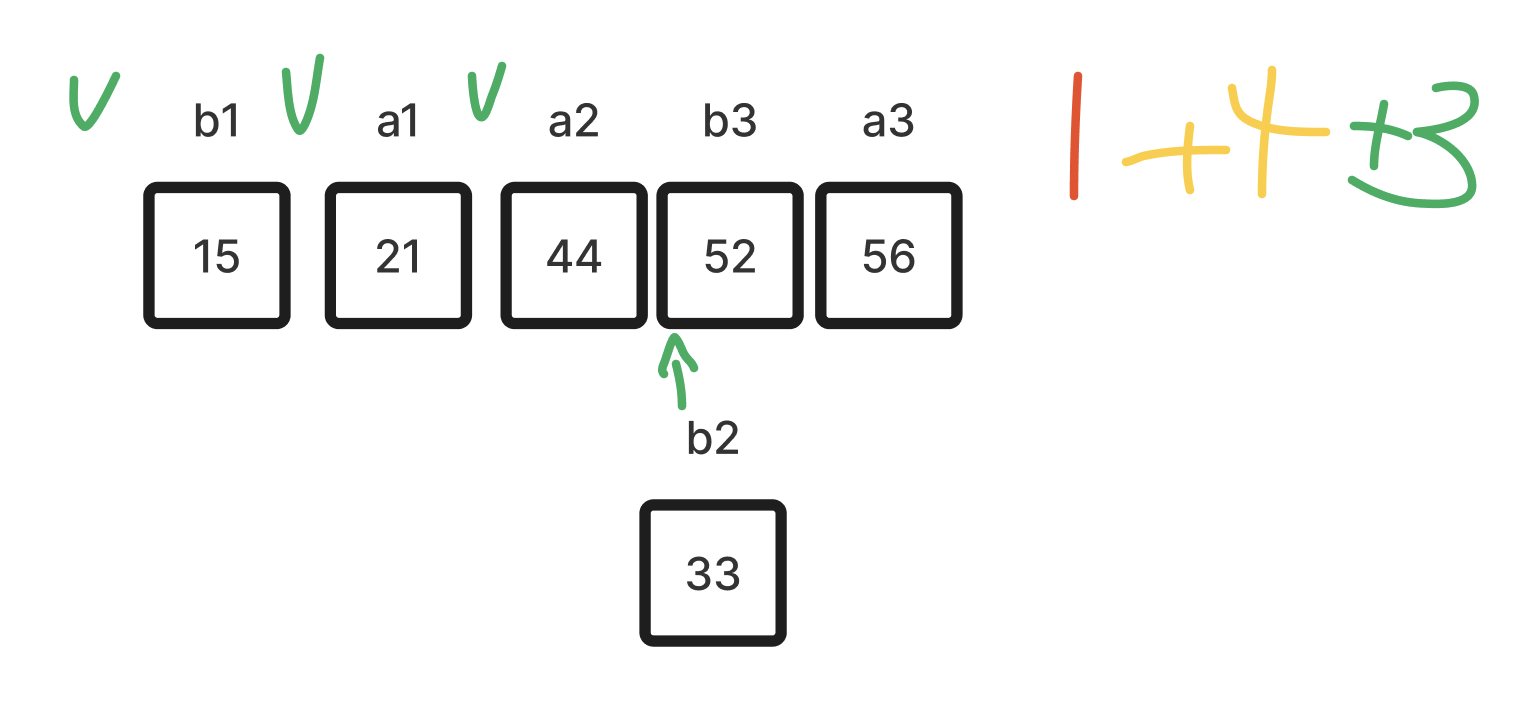
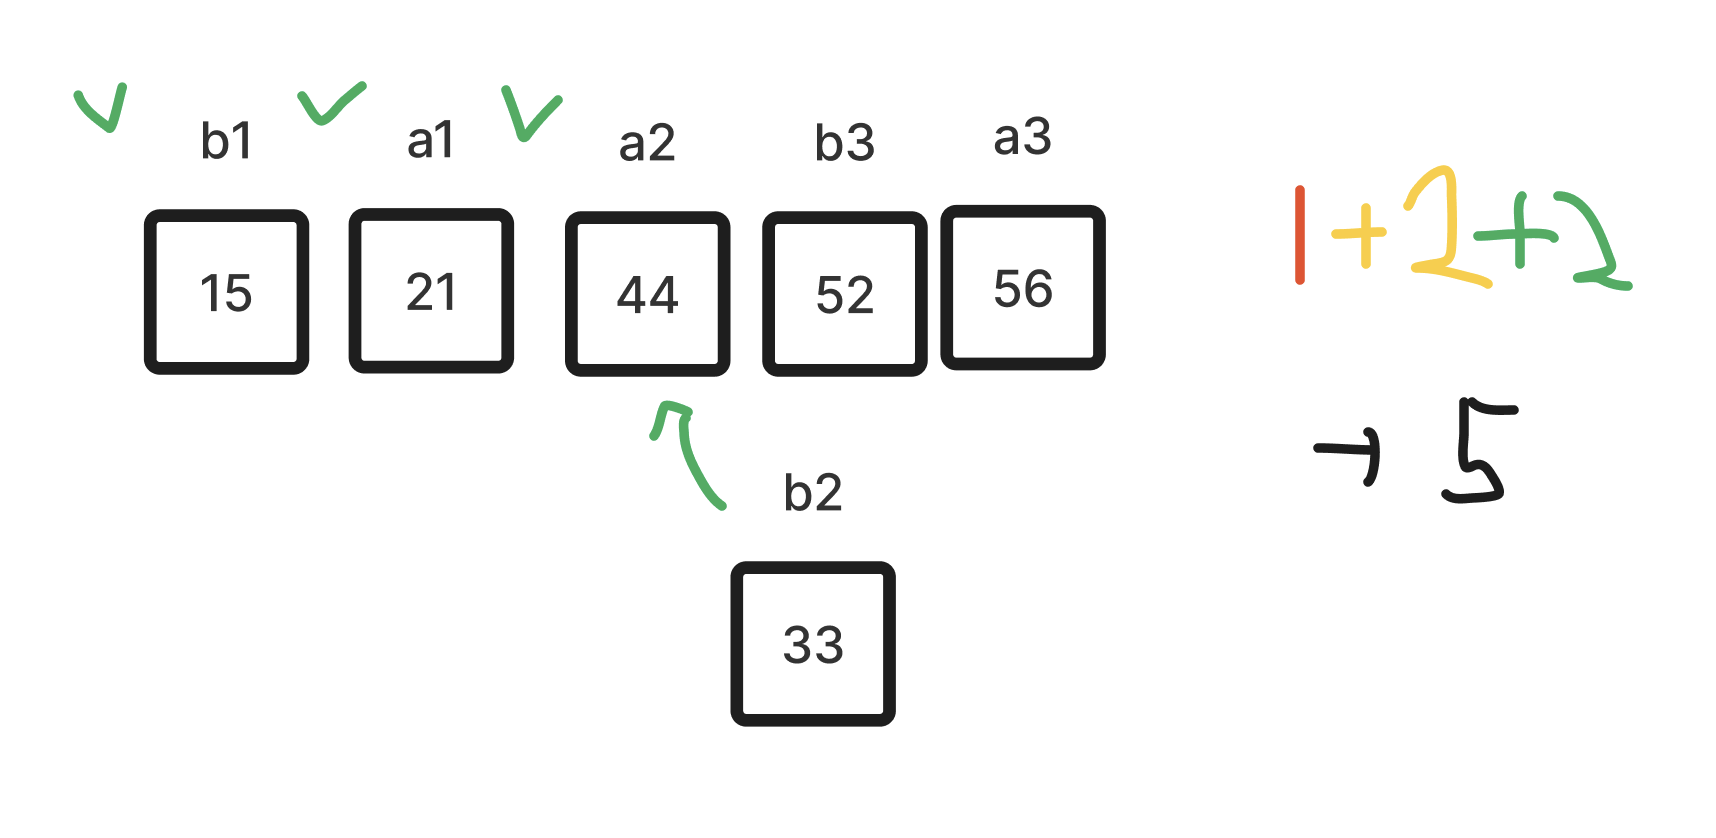
fixed: cpp_module_09

diff --git a/_posts/42cursus/tag-cppmodule/2023-12-21-cpp-module09.md b/_posts/42cursus/tag-cppmodule/2023-12-21-cpp-module09.md
@@ -179,7 +179,7 @@ date,exchange_rate
 
 ### 대략적인 과정
 
-- 엉성한 구현이기는 하지만, 본인이 과제를 해결한 대략적인 절차를 설명하면서 모듈 9를 마무리하도록 하겠다. 예시로 정렬한 배열은 {21, 15, 34, 56, 41, 44}이다. 
+- 엉성한 구현이기는 하지만, 본인이 과제를 해결한 대략적인 절차를 설명하면서 모듈 9를 마무리하도록 하겠다. 예시로 정렬할 배열은 {21, 15, 34, 56, 41, 44}이다. 
 
 (1) 매개 변수로 배열을 받아 배열이 모두 양의 정수로 이루어져 있는지 검사하고, 만약 그렇다면 Jacobsthal 수로 이루어져 있는 배열을 만든다. Jacobstahl수로 이루어진 배열의 size는 매개변수로 주어진 배열의 size와 동일하다. 그러면 Jacobstahl 수가 무조건 매개변수로 주어진 배열의 size를 넘게 된다. 
 
@@ -215,13 +215,13 @@ void	PmergeMe::fillJacobsthal()
 - 이후
 <center><img src="/assets/img/cpp_module/09-02.png" width="100%" height="100%"></center><br>
 
-(3) 배열을 두 개로 나눈다. 하나는 바로 위 사진에서 "작은 값" 만으로 이루어진 배열이고, 나머지는 "큰 값" 만으로 이루어진 배열이다. 여기까지가 "병합-삽입" 중의 "병합"이다. 이후의 작업은 삽입이다. (배열이 홀수 개라면 나머지 하나는 그냥 작은 값 배열의 끄트머리에 넣어버린다)
+(3) 배열을 두 개로 나눈다. 하나는 바로 위 사진에서 "작은 값" 만으로 이루어진 배열이고, 나머지는 "큰 값" 만으로 이루어진 배열이다. 여기까지가 "병합-삽입" 중의 "병합"이다. 이후의 작업은 삽입이다. (배열이 홀수 개라면 나머지 하나는 그냥 작은 값 배열의 끄트머리에 넣어버린다). std::pair를 통해 편하게 진행할 수 있다.
 
 <center><img src="/assets/img/cpp_module/09-03.png" width="100%" height="100%"></center><br>
 
  진짜 제대로 된 포드-존슨 알고리즘이라면 여기까지의 과정이 재귀로 이루어져 한다는 것으로 생각하고 있다. 병합 정렬을 하듯이 배열을 둘로 나누어 더 이상 나눌 수 없을 때까지 나눈 후, 배열을 합치면서 이렇게 배열을 둘로 나누면 되지 않을까? 하고 생각한다. ~~생각만 해본다.~~
 
-(4) **이제 작은 값 배열의 숫자를 큰 값 배열에 삽입하면서 정렬한다.** 이때 순서대로 집어넣는게 아니라 Jacobstahl수를 따르면서 삽입한다. 이때를 위해 만들어둔 Jacobstahl수 배열을 꺼내온다.
+(4) **이제 작은 값 배열의 숫자를 큰 값 배열에 삽입하면서 정렬한다.** 이때 순서대로 집어넣는게 아니라 Jacobstahl수를 따르면서 삽입한다. 이때를 위해 만들어둔 Jacobstahl수 배열을 꺼내온다. 지금 정렬하려는 배열이 6개라서 준비된 Jacobstahl 배열도 6개인데, 배열이 길어지면 Jacobstahl 배열 그 size에 맞도록 설정했다.
 
 <center><img src="/assets/img/cpp_module/09-04.png" width="100%" height="100%"></center><br>
 
@@ -239,7 +239,11 @@ void	PmergeMe::fillJacobsthal()
 
 <center><img src="/assets/img/cpp_module/09-07.png" width="100%" height="100%"></center><br>
 
-(5) 삽입할 때, 반복문을 돌지 않고 이진 탐색을 실행한다. 큰 값 배열은 언제나 오름차순으로 정렬되어 있기 때문에 별도의 절차 없이 바로 이진 탐색을 실행하면 된다(큰 값 배열은 정렬되어 있지 않다). 이때 Jacobstahl수 순서대로 정렬하면 이진 탐색의 수를 줄일 수 있다. **줄일 수도 있다는 게 포인트다, 무조건 줄어드는 게 아니다.** 직접 경우의 수를 확인해보자. 
+#### 이진 탐색 수 줄이기
+
+- 결국 위 과정은 이진 탐색 수를 최대한 줄여가면서 b 배열에서 a 배열에 수를 집어넣기 위한 세팅이다. 이진 탐색 수가 줄어든다는 것을 이해하기 위해서는 이진 탐색 수를 계산하는 매커니즘을 알아야 한다. **이진 탐색 수는 정렬할 수 있는 경우의 수가 2의 제곱수일때마다 늘어나게 된다.(2, 4, 8 ...)** 이진 탐색 수를 줄이기 위해서는 정렬할 수 있는 경우의 수를 줄이는 것이 핵심이다.
+
+(5) 삽입할 때, 삽입 정렬처럼 반복문을 도는게 아니라 이진 탐색을 실행한다. 큰 값 배열은 언제나 오름차순으로 정렬되어 있기 때문에 별도의 절차 없이 바로 이진 탐색을 실행하면 된다(큰 값 배열은 정렬되어 있지 않다). 이때 Jacobstahl 수 순서대로 정렬하면 이진 탐색의 수를 줄일 수 있다. **줄일 수도 있다는 게 포인트다, 무조건 줄어드는 게 아니다.** 직접 경우의 수를 확인해보자. 
 
 (5 - 1) Jacobstahl 순서를 따르는 경우
 
@@ -249,7 +253,7 @@ void	PmergeMe::fillJacobsthal()
 
 <center><img src="/assets/img/cpp_module/09-09.png" width="80%" height="80%"></center><br>
 
-- 1번의 탐색으로 b1(15)을 정렬할 수가 있다. 이진 탐색은 탐색 범위를 절반으로 나누면서 실행하는데, 이미 탐색 범위가 1이기 때문에 이진 탐색 1번으로 적절한 위치를 찾을 수 있다. Jacobstahl 순서를 따른다면, 다음으로 정렬할 수는 52다. **b3이 a3보다 항상 작다는 것을 고려했을 때** 52의 경우의 수는 아래와 같다.
+- 경우의 수는 하나로, 최대 1번의 탐색으로 b1(15)을 정렬할 수가 있다. 이진 탐색은 탐색 범위를 절반으로 나누면서 실행하는데, 이미 탐색 범위가 1이기 때문에 이진 탐색 1번으로 적절한 위치를 찾을 수 있다. Jacobstahl 순서를 따른다면, 다음으로 정렬할 수는 52다. **b3이 a3보다 항상 작다는 것을 고려했을 때** 52의 경우의 수는 아래와 같다.
 
 <center><img src="/assets/img/cpp_module/09-10.png" width="80%" height="80%"></center><br>
 
@@ -257,19 +261,28 @@ void	PmergeMe::fillJacobsthal()
 
 <center><img src="/assets/img/cpp_module/09-11.png" width="80%" height="80%"></center><br>
 
-- **b2는 a2보다 작기 때문에**, 3개의 경우의 수를 가진다. 이 경우 이진 탐색을 2번 실행하여 33의 위치를 찾을 수 있다. 따라서 Jacobstahl 순서를 따를 경우, 5번의 이진 탐색으로 배열을 정렬할 수 있다.  
+- **b2는 a2보다 작기 때문에**, 3개의 경우의 수를 가진다. 이 경우 최대 이진 탐색을 2번 실행하여 33의 위치를 찾을 수 있다. 따라서 Jacobstahl 순서를 따를 경우, 5번의 이진 탐색으로 배열을 정렬할 수 있다.
+
+~~~md
+(경우의 수 1, 2개 -> 이진 탐색 수 최대 1번으로 자리 찾기 가능)
+(경우의 수 3, 4개 -> 이진 탐색 수 최대 2번으로 자리 찾기 가능)
+(경우의 수 5, 6, 7, 8개 -> 이진 탐색 수 최대 3번으로 자리 찾기 가능)
+...
+~~~
 
 (5 - 2) Jacobstahl 순서를 따르지 않는 경우
 
-- b1을 a에 넣는것 까지는 똑같다. 그 다음으로 38을 정렬한다. 경우의 수는 아래와 같다.
+- b1을 a에 넣는것 까지는 똑같다. 그 다음으로 33을 정렬한다. 경우의 수는 아래와 같다.
 
 <center><img src="/assets/img/cpp_module/09-12.png" width="80%" height="80%"></center><br>
 
-- 경우의 수가 3이므로, 이진 탐색 2번으로 찾을 수 있다. 마지막으로 44를 정렬한다.
+- 경우의 수가 3이므로, 마찬가지로 최대 이진 탐색 2번으로 찾을 수 있다. 마지막으로 44를 정렬한다.
 
 <center><img src="/assets/img/cpp_module/09-13.png" width="80%" height="80%"></center><br>
 
-- 탐색 범위가 5이므로, 이진 탐색 3번으로 찾을 수 있다. Jacobstahl 순서를 따르지 않는 경우, 6번의 이진 탐색의 배열을 정렬할 수 있다.
+- **탐색 범위가 5이므로, 최대 이진 탐색 3번으로 찾을 수 있다.** Jacobstahl 순서를 따르지 않는 경우, 6번의 이진 탐색의 배열을 정렬할 수 있다. Jacobstahl을 따랐을 때보다 이진 탐색 실행 수가 하나 늘어났다. 이런 느낌으로 이진 탐색 수를 줄인다고 보면 되겠다.
+
+- 물론 무조건 이진 탐색 수가 주는 것도 아니다. 만약 a2가 44가 아니라 56보다 더 큰 수였다면? 마지막 52를 정렬하는 경우의 수가 5에서 4로 줄어들면서 최대 이진 탐색 수가 3에서 2로 줄어들고, Jacobstahl 순서로 하나 그냥 하나 같은 이진 탐색 수로 정렬을 하게 되었을 것이다. ~~운빨똥망정렬~~
 
 ### vector와 deque 비교
 
@@ -283,6 +296,8 @@ std::swap(vec[i], vec[i + 1]);
 
 → **std::deque**, deque a와 deque b간의 swap이 일어남
 
+* 코드 출처 cpp reference, [std::swap(std::deque)](https://en.cppreference.com/w/cpp/container/deque/swap2)
+
 ~~~c++
 #include <algorithm>
 #include <iostream>
@@ -290,27 +305,27 @@ std::swap(vec[i], vec[i + 1]);
 
 int main()
 {
-		std::deque<int> alice{1, 2, 3};
-		std::deque<int> bob{7, 8, 9, 10};
-		
+    std::deque<int> alice{1, 2, 3};
+    std::deque<int> bob{7, 8, 9, 10};
+
     auto print = [](const int& n) {std::cout << ' ' << n; };
-		
+
     // Print state before swap
-		std::cout << "alice:";
-		std::for_each(alice.begin(), alice.end(), print);
-		std::cout << "\n" "bob  :";
-		std::for_each(bob.begin(), bob.end(), print);
-		std::cout << '\n';
-		
-		std::cout << "-- SWAP\n";
-		std::swap(alice, bob);
-		
+    std::cout << "alice:";
+    std::for_each(alice.begin(), alice.end(), print);
+    std::cout << "\n" "bob  :";
+    std::for_each(bob.begin(), bob.end(), print);
+    std::cout << '\n';
+
+    std::cout << "-- SWAP\n";
+    std::swap(alice, bob);
+
     // Print state after swap
-		std::cout << "alice:";
-		std::for_each(alice.begin(), alice.end(), print);
-		std::cout << "\n" "bob  :";
-		std::for_each(bob.begin(), bob.end(), print);
-		std::cout << '\n';
+    std::cout << "alice:";
+    std::for_each(alice.begin(), alice.end(), print);
+    std::cout << "\n" "bob  :";
+    std::for_each(bob.begin(), bob.end(), print);
+    std::cout << '\n';
 }
 ~~~
 
@@ -323,7 +338,7 @@ Output:
 	bob  : 1 2 3
 ~~~
 
-#### ** std::vector, std::deque, std::list
+#### ** std::vector, std::deque, std::list 비교
 
 - **오버헤드(Overhead)란?**
 
@@ -331,26 +346,28 @@ Output:
 
 ##### **(1) std::vector**
 
-- 장점
+* 장점
 
-- 연속적인 메모리 공간에 저장(물리적으로 연속적)
-- iterator, index로 접근 가능
-- 동적으로 확장 가능한 Dynamic Array로 구현
-- 물리적으로 연속되어 있기 때문에 개별 원소에 대한 접근 속도가 빠름, 끝에서 삽입/제거하는 속도가 가장 빠름.
+1) 연속적인 메모리 공간에 저장(물리적으로 연속적)
+2) iterator, index로 접근 가능
+3) 동적으로 확장 가능한 Dynamic Array로 구현
+4) 물리적으로 연속되어 있기 때문에 개별 원소에 대한 접근 속도가 빠름, 끝에서 삽입/제거하는 속도가 가장 빠름.
 
-- 단점
+* 단점
 
-- 동적으로 확장할 때, 재할당 비용이 꽤 큼
-- Capacity를 확장시켜줄수 있는 적절한 크기의 reserve가 중요(메모리 확보)
+1) 동적으로 확장할 때, 재할당 비용이 꽤 큼
+2) Capacity를 확장시켜줄수 있는 적절한 크기의 reserve가 중요(메모리 확보)
 
 💡 vector는 메모리 상의 시퀀스를 유지하기 때문에, 확장을 하게 된다면 새로운 메모리를 할당받아야한다. 따라서 vector는 더 큰 공간을 새로 할당하면서 큰 오버헤드가 발생한다. 이 문제를 reserve라는 함수로 미리 할당하면서 재할당 방지를 하는 것.
 
 ##### **(2) std::deque**
 
-- random access iterator를 통한 index 접근 가능
-- Dynamic Array로 구현
-- vector와 비슷한 점이 많지만 컨테이너 끝 뿐만 아니라 첫 부분의 삽입/제거도 효율이 높다.
-- 그리고 가장 큰 차이점은 **연속된 메모리에 올라가 있지 않다**. 몇 바이트 단위의 **chunk로 쪼개져 있으며** 이 chunk는 내부적으로 관리된다.
+* 특징
+
+1) random access iterator를 통한 index 접근 가능
+2) Dynamic Array로 구현
+3) vector와 비슷한 점이 많지만 컨테이너 끝 뿐만 아니라 첫 부분의 삽입/제거도 효율이 높다.
+4) 그리고 가장 큰 차이점은 **연속된 메모리에 올라가 있지 않다**. 몇 바이트 단위의 **chunk로 쪼개져 있으며** 이 chunk는 내부적으로 관리된다.
 
 - 주의
 
@@ -358,18 +375,20 @@ Output:
 
 ##### **(3) std::list**
 
-- Double Linked list, 이중 연결 리스트 기반 구현
-- 어느 위치에서도 삽입/제거가 빠르다
+* 특징
 
-- 단점 & 주의
+1) Double Linked list, 이중 연결 리스트 기반 구현
+2) 어느 위치에서도 삽입/제거가 빠르다
 
-- index로 접근 불가(처음 또는 끝에서 선형 탐색해야함)
-- 컨테이너 내 원소 순회는 forward/reverse 순회만 가능하며 느림
-- 상호 연결 정보를 위해 추가 메모리 사용
+* 단점 & 주의
+
+1) index로 접근 불가(처음 또는 끝에서 선형 탐색해야함)
+2) 컨테이너 내 원소 순회는 forward/reverse 순회만 가능하며 느림
+3) 상호 연결 정보를 위해 추가 메모리 사용
 
 ### 결론
 
-- 그런데 **무조건 줄어드는 게 아니라고** 했다. 운이 좋아서 줄어든거지, 작은 값 배열이 어떤 식으로 배치되어 있느냐에 따라 이진 탐색 횟수가 줄어들지 않을 수도 있다. 그리고 이진 탐색 횟수를 줄이는데 큰 역할을 했던 것은 Jacobstahl 순서로 정렬하는게 아니라 a1이 b1보다 크다는 사실(ak가 bk보다 크다는 사실)이었다. 여러모로 아리송한 exercise였고, 평가자들도 포드-존슨 알고리즘을 정확히 알지 못해 어물쩍 넘어가버렸던 기억이 있다. 그래도 푸는 재미가 있는 문제들이었다고 생각한다. 아래는 Jacobstahl 순서로 이진 탐색 + ak가 bk보다 크다는 사실이 적용된 이진 탐색 숫자와, 그것이 적용되지 않은 이진 탐색 숫자를 비교한 출력을 보여주면서 모듈을 끝내도록 하겠다.
+- Jacobstahl수로 이진 탐색 수를 줄이네마네 했지만 이진 탐색 횟수를 줄이는데 큰 역할을 했던 것은 Jacobstahl 순서로 정렬하는게 아니라 a1이 b1보다 크다는 사실(ak가 bk보다 크다는 사실)이었다. 저게 경우의 수를 기가 막히게 줄여서 이진 탐색 수를 엄청 줄여준다. 여러모로 아리송한 exercise였고, 평가자들도 포드-존슨 알고리즘을 정확히 알지 못해 어물쩍 넘어가버렸던 기억이 있다. ~~다시통과할자신은없다~~ 그래도 푸는 재미가 있는 문제들이었다고 생각한다. 아래는 Jacobstahl 순서로 이진 탐색 + ak가 bk보다 크다는 사실이 적용된 이진 탐색 숫자와, 그것이 적용되지 않은 이진 탐색 숫자를 비교한 출력을 보여주면서 모듈을 끝내도록 하겠다.
 
 (1) "Jacobstahl 순서로 이진 탐색 + ak가 bk보다 크다" 적용됨
 
